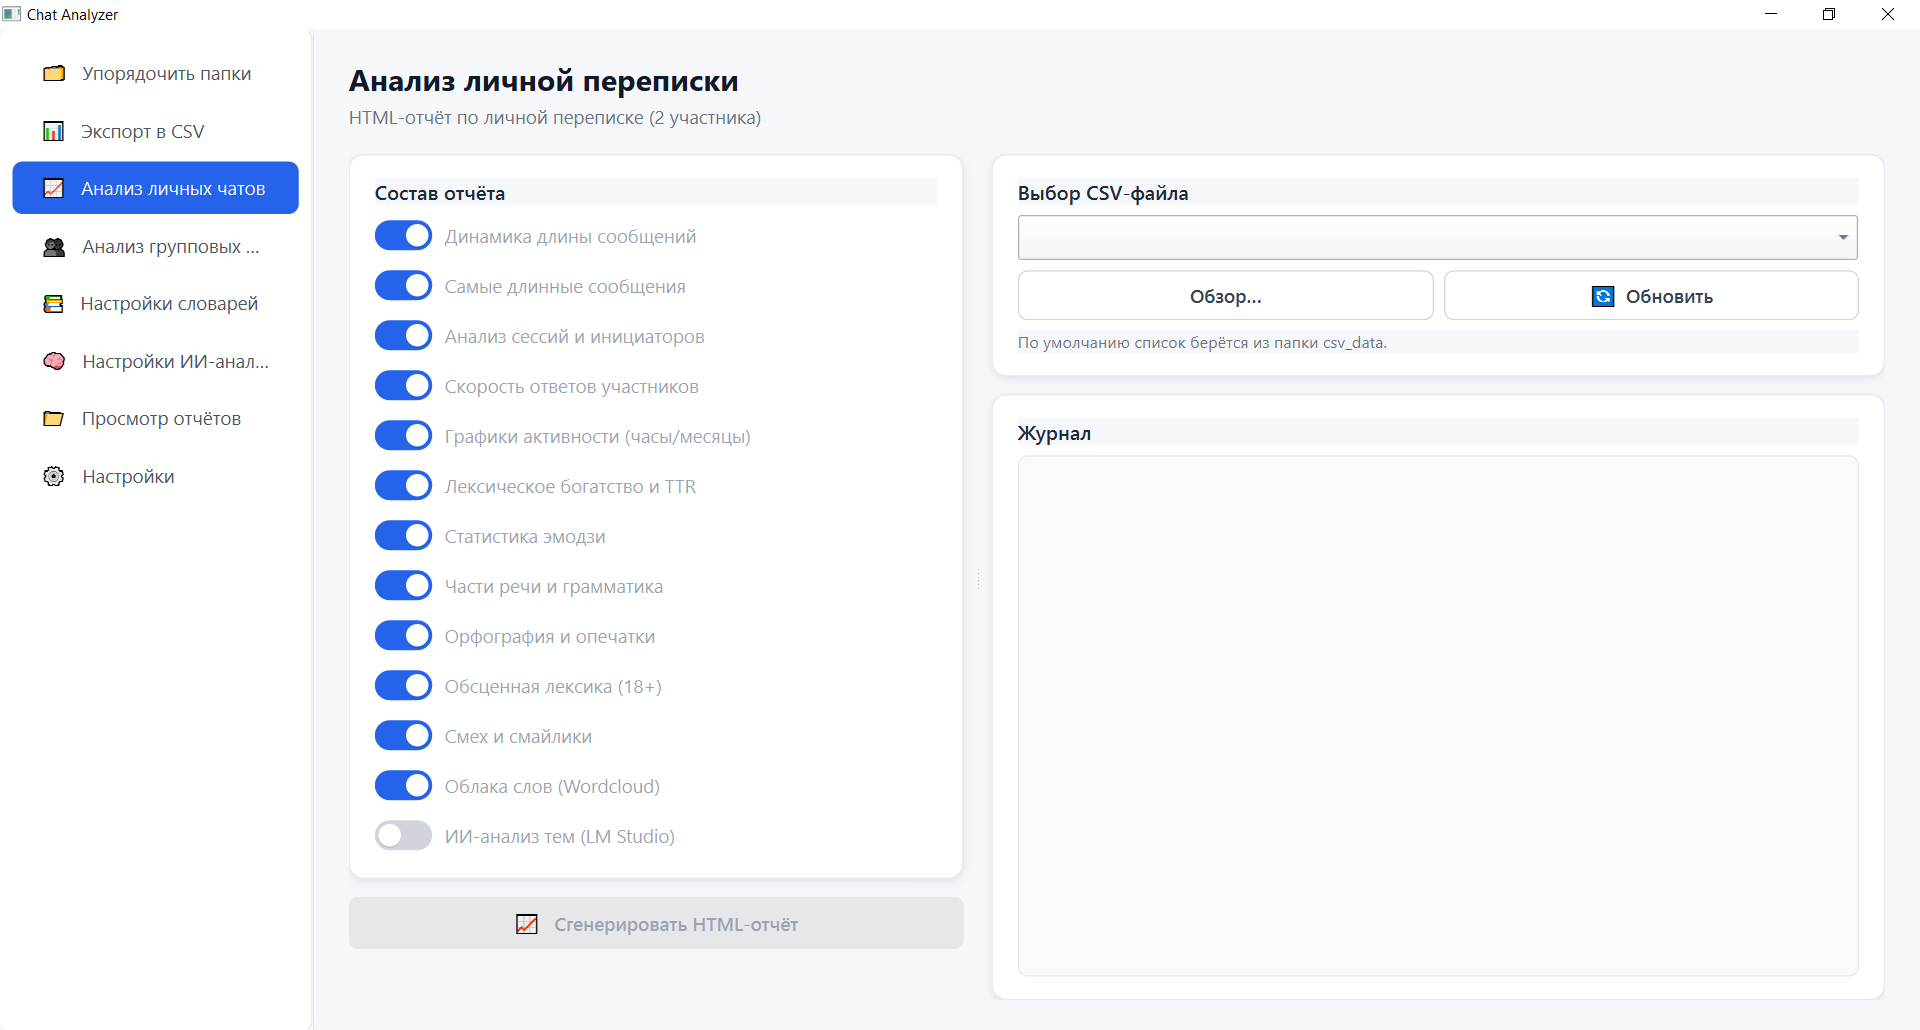
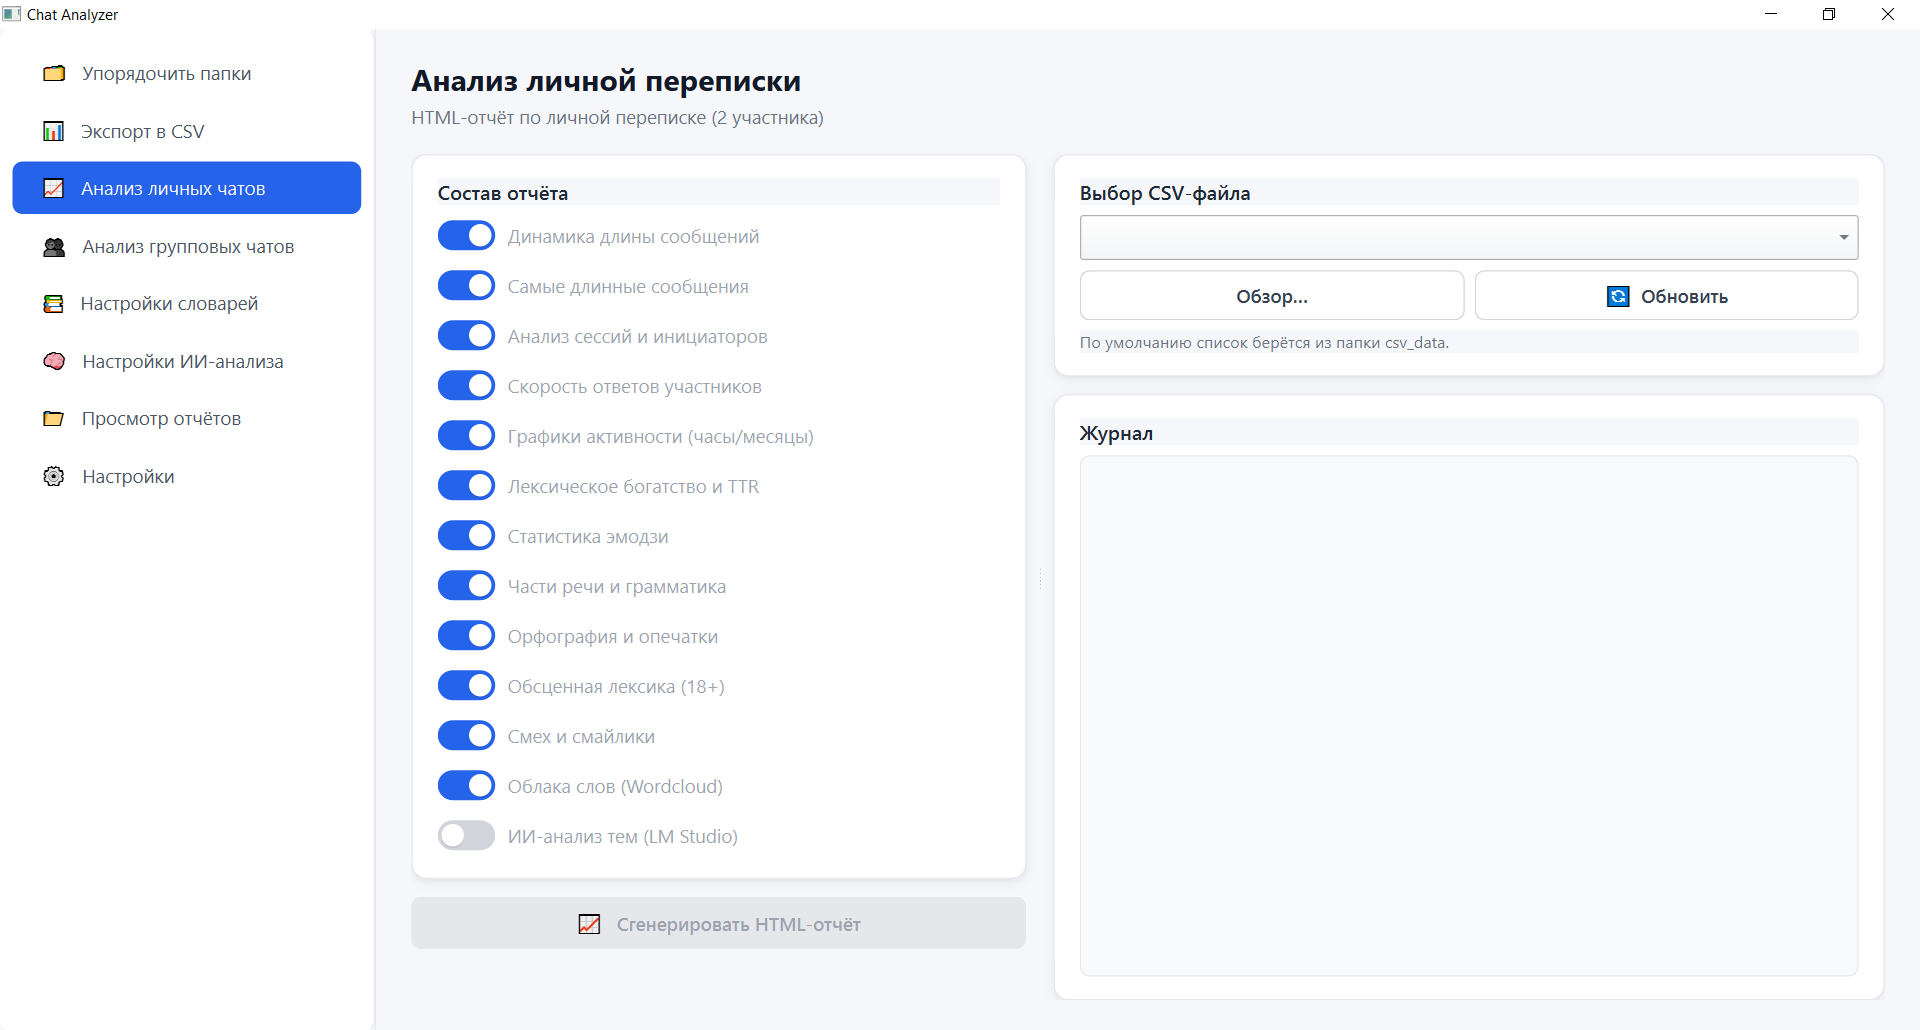
fix width sidebar & add screenshots

diff --git a/ui/main_window.py b/ui/main_window.py
@@ -30,7 +30,7 @@ class MainWindow(QMainWindow):
         # ---------- Сайдбар ----------
         self.sidebar = QListWidget()
         self.sidebar.setObjectName("Sidebar")
-        self.sidebar.setFixedWidth(250)
+        self.sidebar.setFixedWidth(300)
         self.sidebar.setFocusPolicy(Qt.NoFocus)
         self.sidebar.setHorizontalScrollBarPolicy(Qt.ScrollBarAlwaysOff)
 
